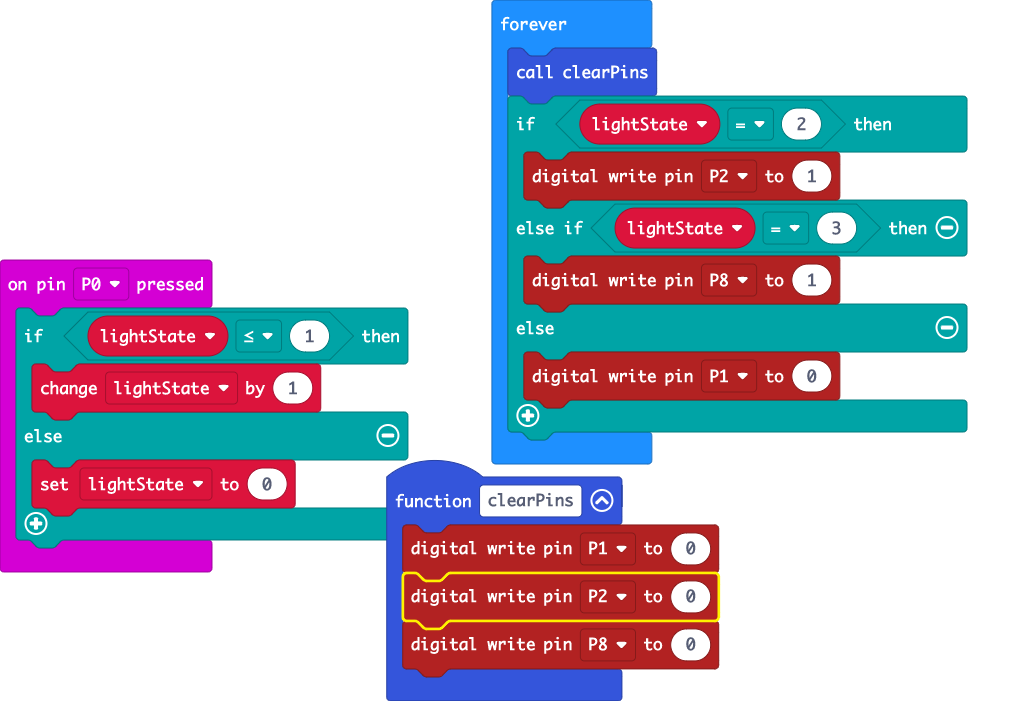
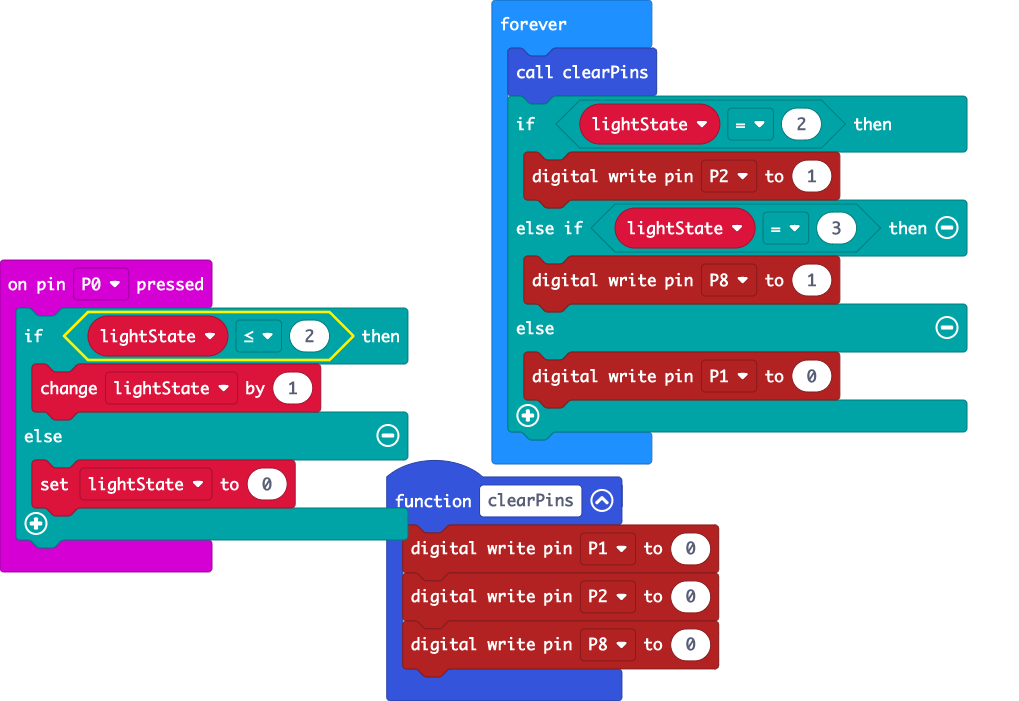
Update main.blocks, main.ts

diff --git a/main.ts b/main.ts
@@ -1,6 +1,6 @@
 let lightState = 0
 input.onPinPressed(TouchPin.P0, function () {
-    if (lightState <= 1) {
+    if (lightState <= 2) {
         lightState += 1
     } else {
         lightState = 0
